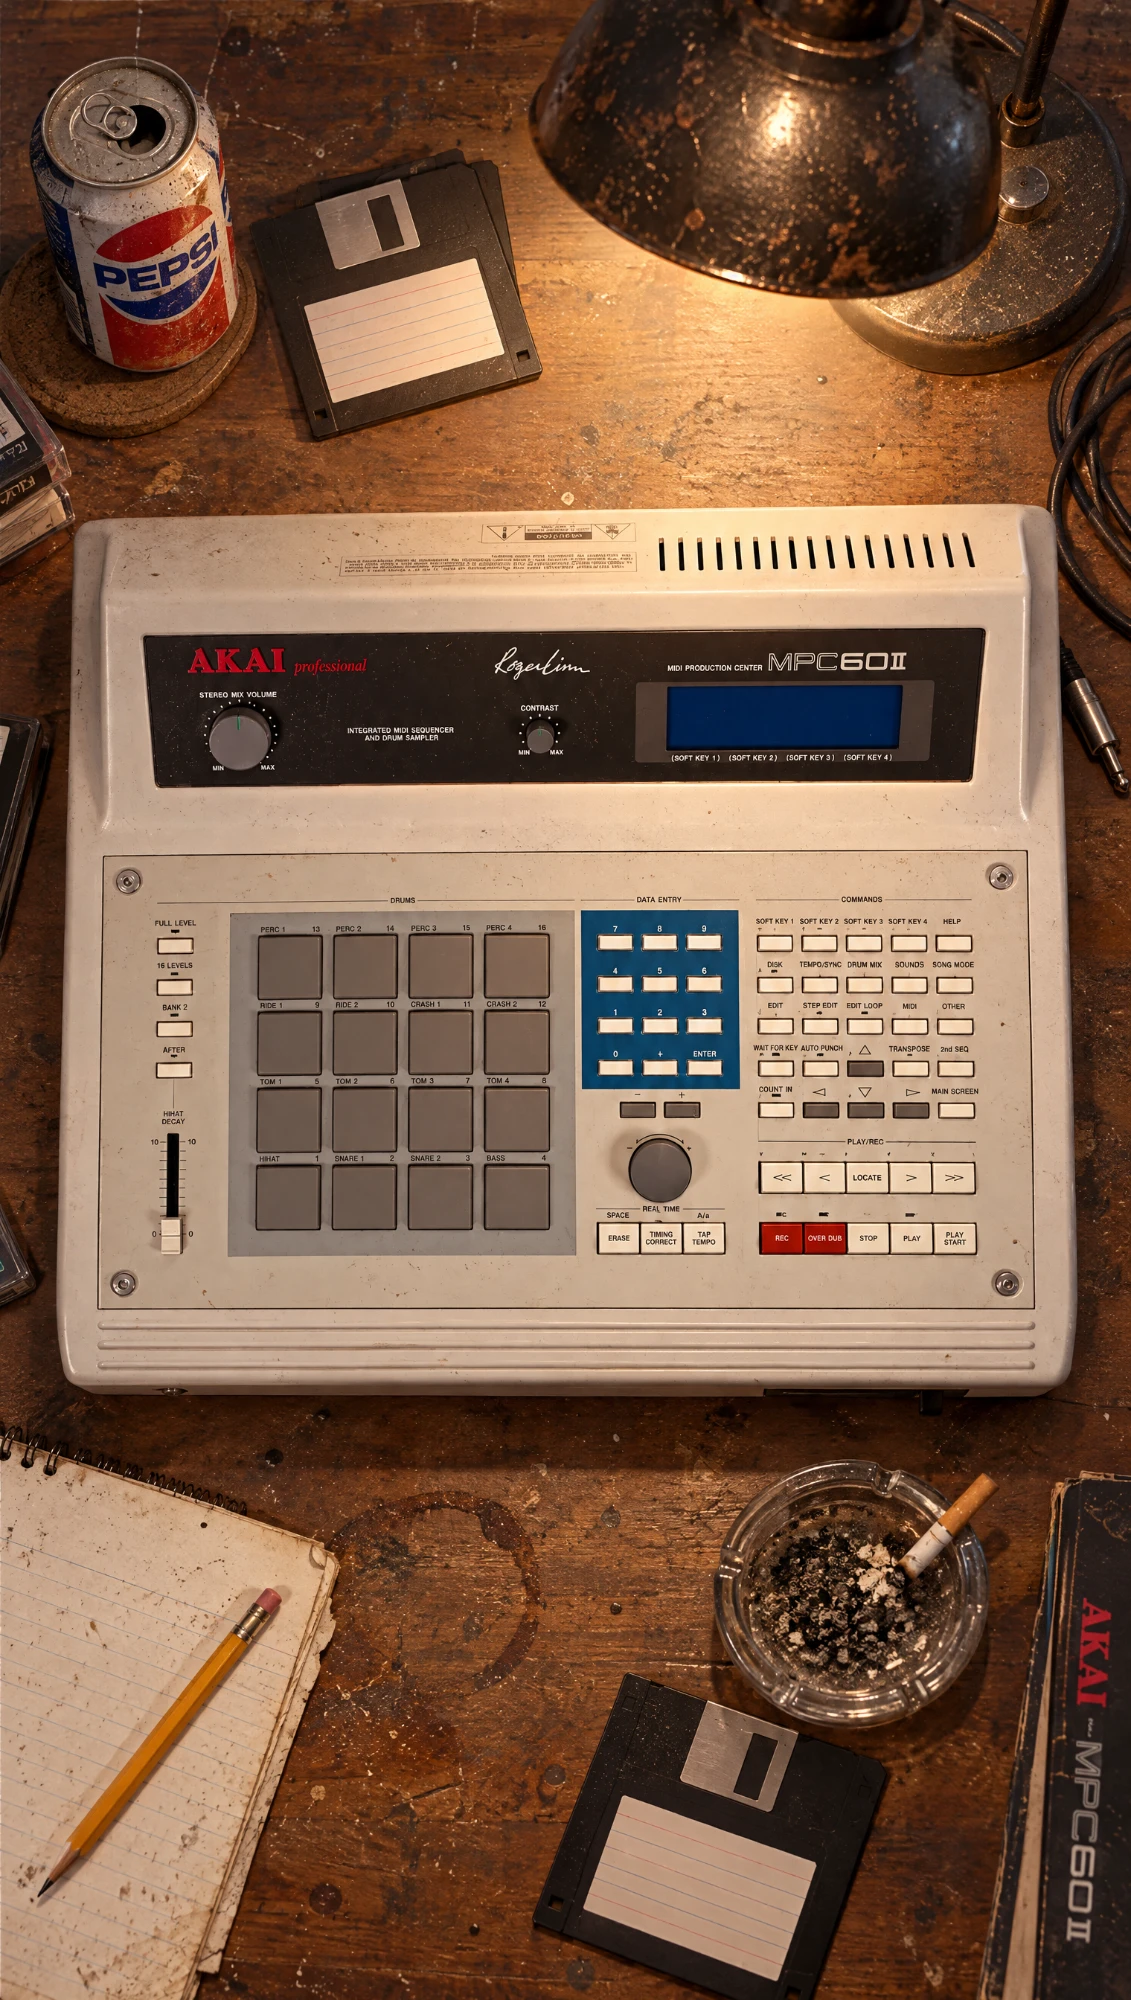
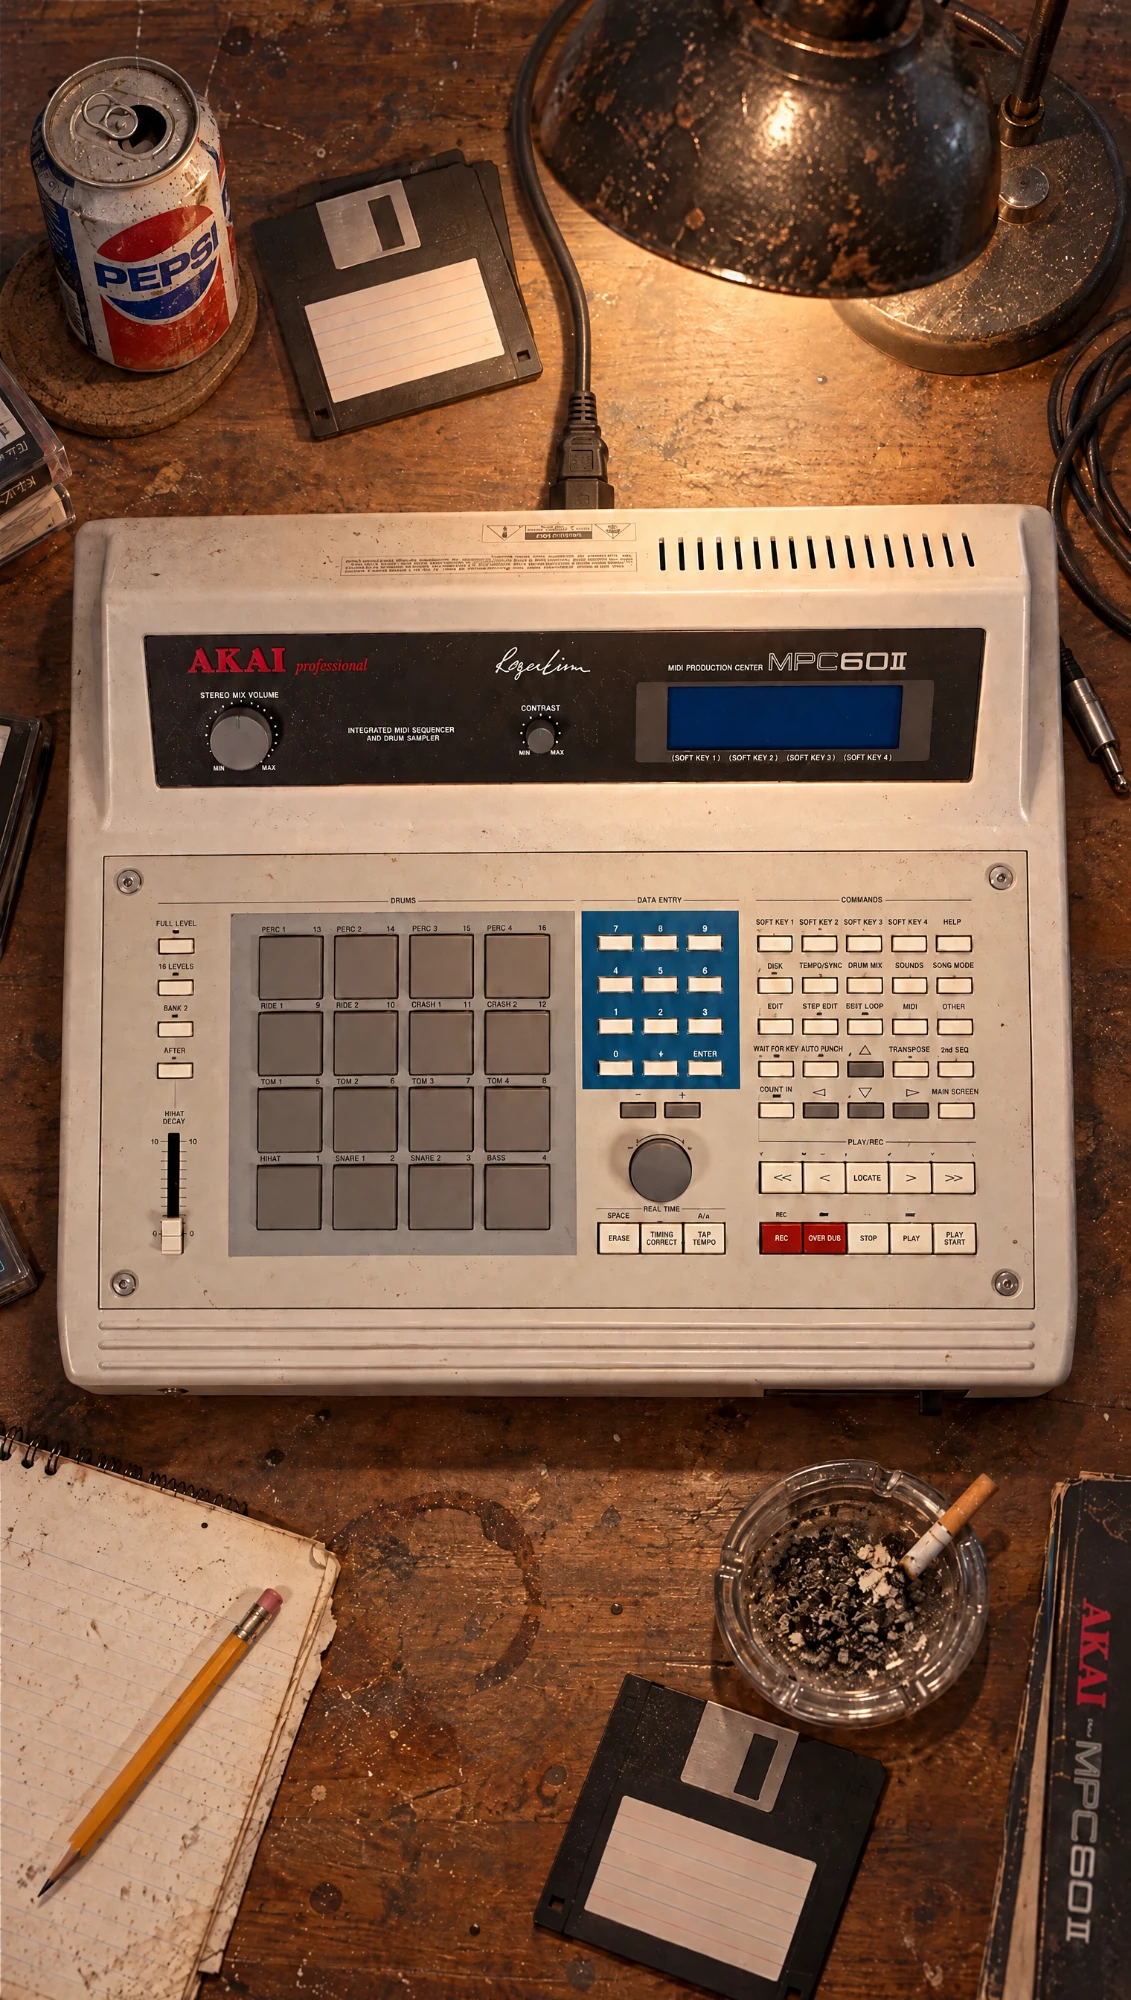
MPC maker: 9:16 desk scene updated with the power cord

diff --git a/mpc.js b/mpc.js
@@ -487,7 +487,7 @@ function wire(){const sel=$q('#mBeat');sel.innerHTML='<option value="">Choose a 
 window.mpcOpen=async function(){css();root=document.getElementById('mpcmk');root.classList.add('on');
  if(!mounted){root.innerHTML='<div class="pn"><div class="msg">Loading the MPC...</div></div>';
   try{await loadS('mpcdetect.js?v=10');await loadS('mpcyt.js?v=8');if(!document.querySelector('link[data-mpc]')){await new Promise(res=>{const l=document.createElement('link');l.rel='stylesheet';l.href=FONT_LINK;l.dataset.mpc='1';l.onload=res;l.onerror=res;document.head.appendChild(l);setTimeout(res,5000)})}
-   await Promise.all(["40px Anton","600 40px Oswald","30px VT323","700 40px Caveat","40px Reenie Beanie"].map(f=>document.fonts.load(f).catch(()=>{})));IMG=await loadImg('mpc/mpc60.webp');CUT=await loadImg('mpc/mpc60_cut.webp');if(!IMG||!CUT)throw new Error('photo');DESKS.h=await loadImg('mpc/desk.webp?v=2');DESKS.v=await loadImg('mpc/desk_v.webp');prepHands(await loadImg('mpc/hand_r.webp'),await loadImg('mpc/hand_l.webp'));DESKBG.h=await loadImg('mpc/bg_h.webp?v=1');DESKBG.v=await loadImg('mpc/bg_v.webp?v=1');WARM={cut:warmVer(CUT),photo:warmVer(IMG)};sampleColors()}
+   await Promise.all(["40px Anton","600 40px Oswald","30px VT323","700 40px Caveat","40px Reenie Beanie"].map(f=>document.fonts.load(f).catch(()=>{})));IMG=await loadImg('mpc/mpc60.webp');CUT=await loadImg('mpc/mpc60_cut.webp');if(!IMG||!CUT)throw new Error('photo');DESKS.h=await loadImg('mpc/desk.webp?v=2');DESKS.v=await loadImg('mpc/desk_v.webp?v=2');prepHands(await loadImg('mpc/hand_r.webp'),await loadImg('mpc/hand_l.webp'));DESKBG.h=await loadImg('mpc/bg_h.webp?v=1');DESKBG.v=await loadImg('mpc/bg_v.webp?v=1');WARM={cut:warmVer(CUT),photo:warmVer(IMG)};sampleColors()}
   catch(e){root.innerHTML='<div class="pn"><div class="msg">The MPC did not load. Refresh the page.</div></div>';return}
   try{const {data}=await sb.from('beats').select('id,title,bpm,musical_key,preview_path,slug,tags').order('sort_order',{ascending:true}).order('created_at',{ascending:false});beats=(data||[]).filter(b=>b.preview_path)}catch(e){beats=[]}
   ST=load();if(!ST.th)ST.th={seed:1,pal:'',fmt:'h'};if(!ST.yt.v)ST.yt.v=0;if(!ST.tape)ST.tape=defaults().tape;if(!ST.eng)ST.eng=defaults().eng;if(!ST.smoke)ST.smoke=defaults().smoke;if(!ST.hands)ST.hands=defaults().hands;S=null;root.innerHTML=html();wire();size();ytRender();mounted=true;drawNow();if(ST.beat&&beats.some(b=>String(b.id)===String(ST.beat)))pick(ST.beat)}

diff --git a/index.html b/index.html
@@ -1447,7 +1447,7 @@ async function boRender(){
  document.getElementById('bo2b').style.display='none';document.getElementById('bo2c').style.display='none';
  if(window.emailClose)emailClose();if(window.showMakerClose)showMakerClose();if(window.mpcClose)mpcClose();
  if(tab==='email'){document.querySelector('#bo .bo2').style.display='none';if(window.studioClose)studioClose();try{if(!window.emailOpen)await loadScript('email.js?v=4');await emailOpen()}catch(e){toast('EMAIL STUDIO FAILED TO LOAD')}return}
- if(tab==='mpc'){document.querySelector('#bo .bo2').style.display='none';if(window.studioClose)studioClose();try{if(!window.mpcOpen)await loadScript('mpc.js?v=36');await mpcOpen()}catch(e){toast('MPC FAILED TO LOAD')}return}
+ if(tab==='mpc'){document.querySelector('#bo .bo2').style.display='none';if(window.studioClose)studioClose();try{if(!window.mpcOpen)await loadScript('mpc.js?v=37');await mpcOpen()}catch(e){toast('MPC FAILED TO LOAD')}return}
  if(tab==='show'){document.querySelector('#bo .bo2').style.display='none';if(window.studioClose)studioClose();try{if(!window.MZShow)await loadScript('show.js?v=15');if(!window.MZShowFX)await loadScript('showfx.js?v=3');if(!window.showMakerOpen)await loadScript('showmaker.js?v=16');await showMakerOpen()}catch(e){toast('SHOW MAKER FAILED TO LOAD')}return}
  if(vid){try{await loadStudio();await studioOpen()}catch(e){toast('VIDEO STUDIO FAILED TO LOAD')}return}
  if(window.studioClose)studioClose();
